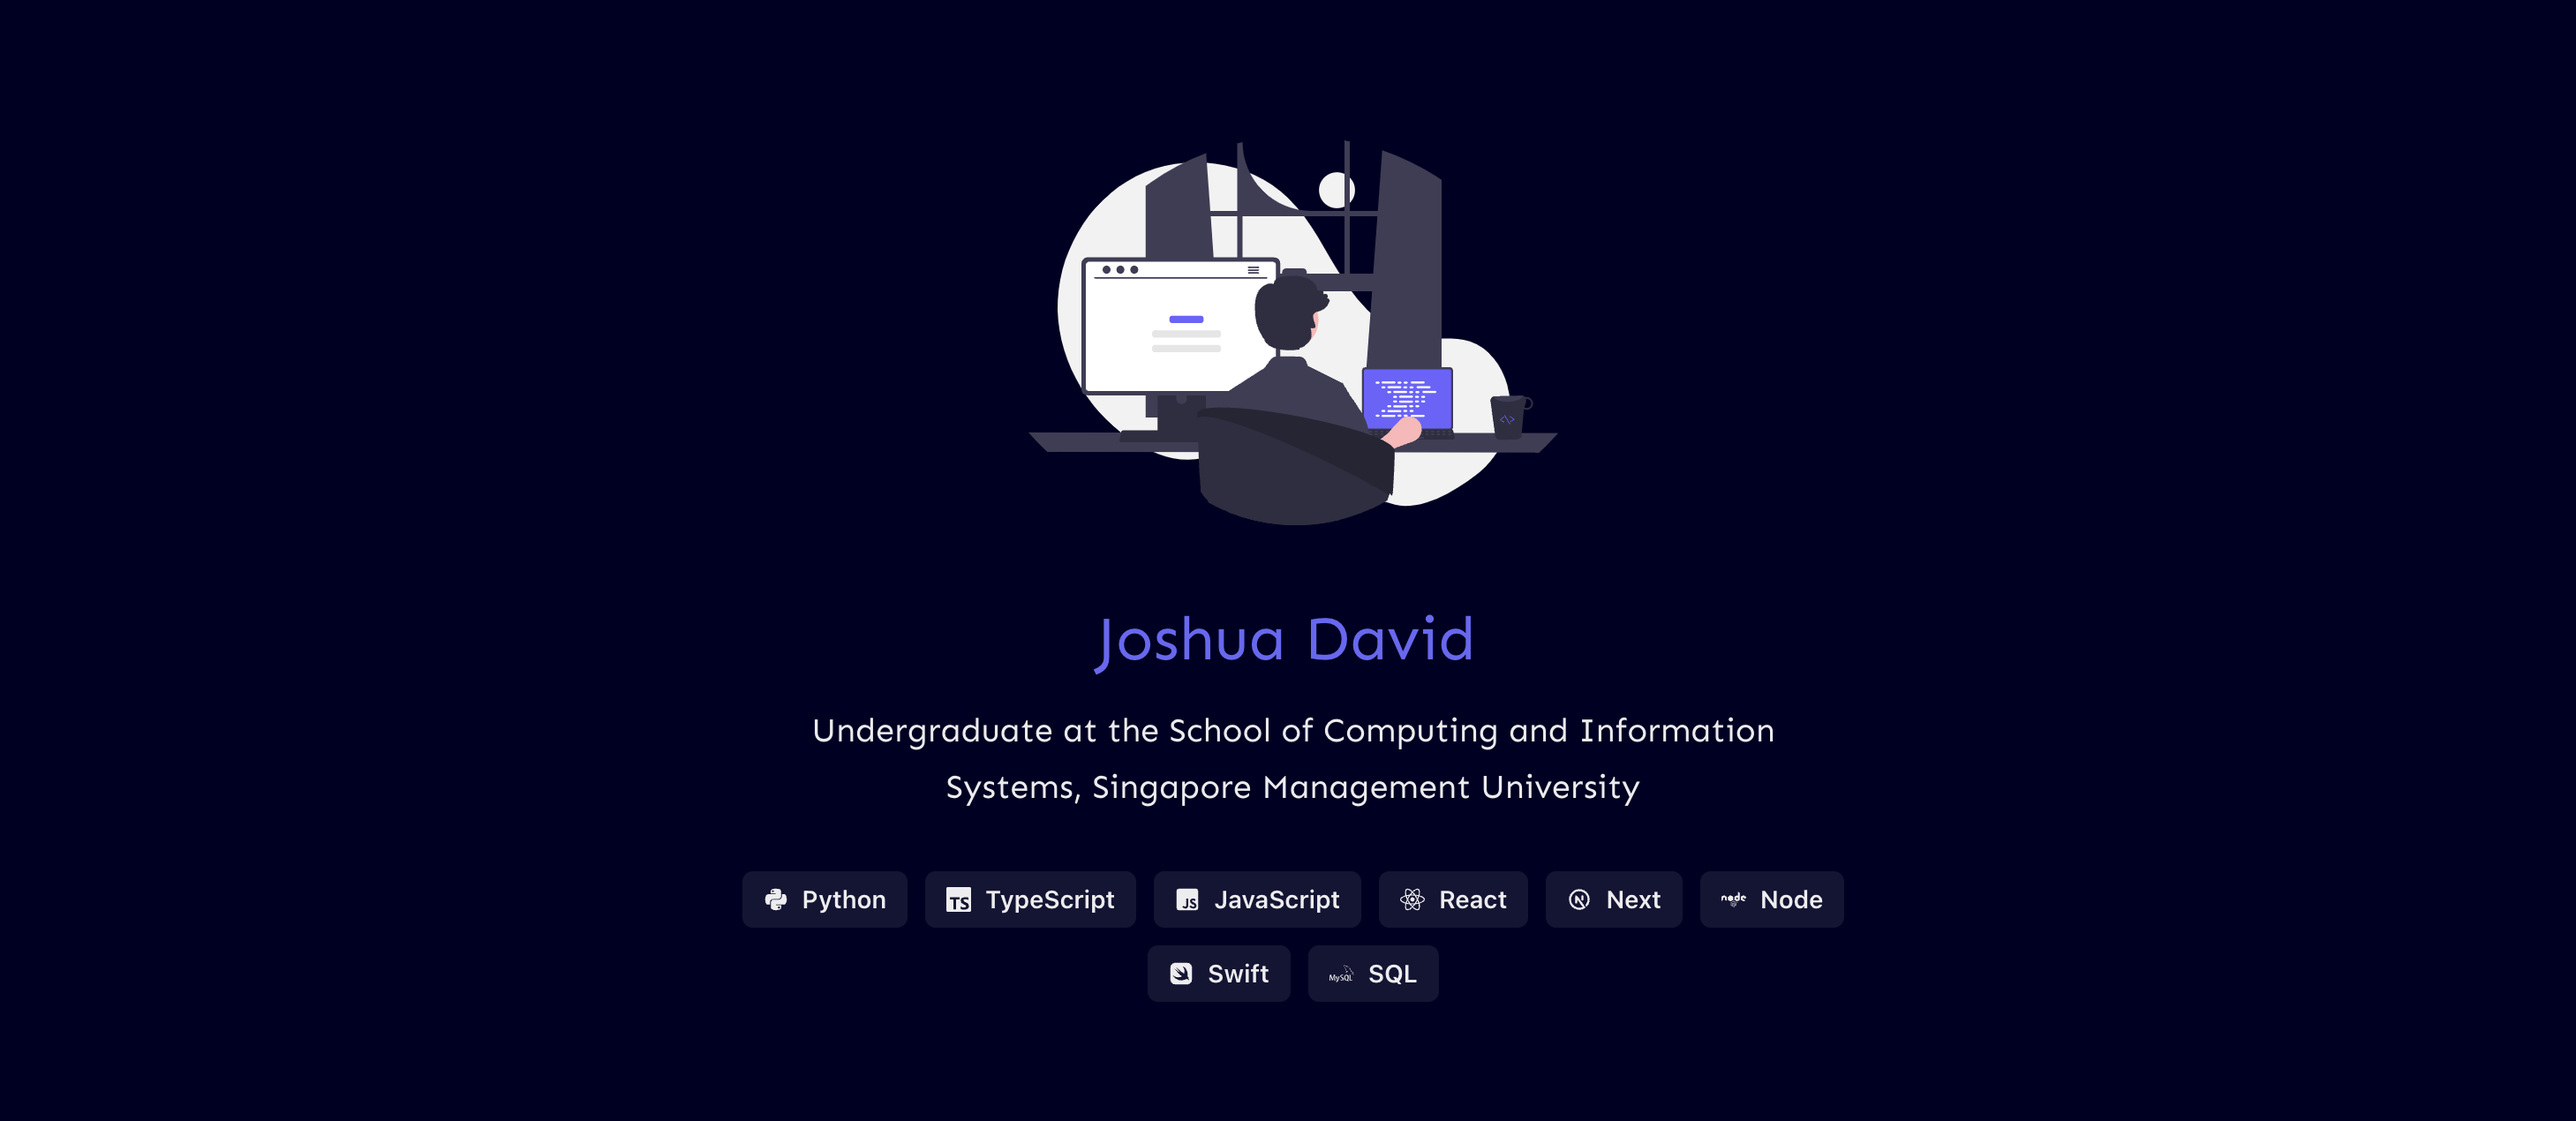
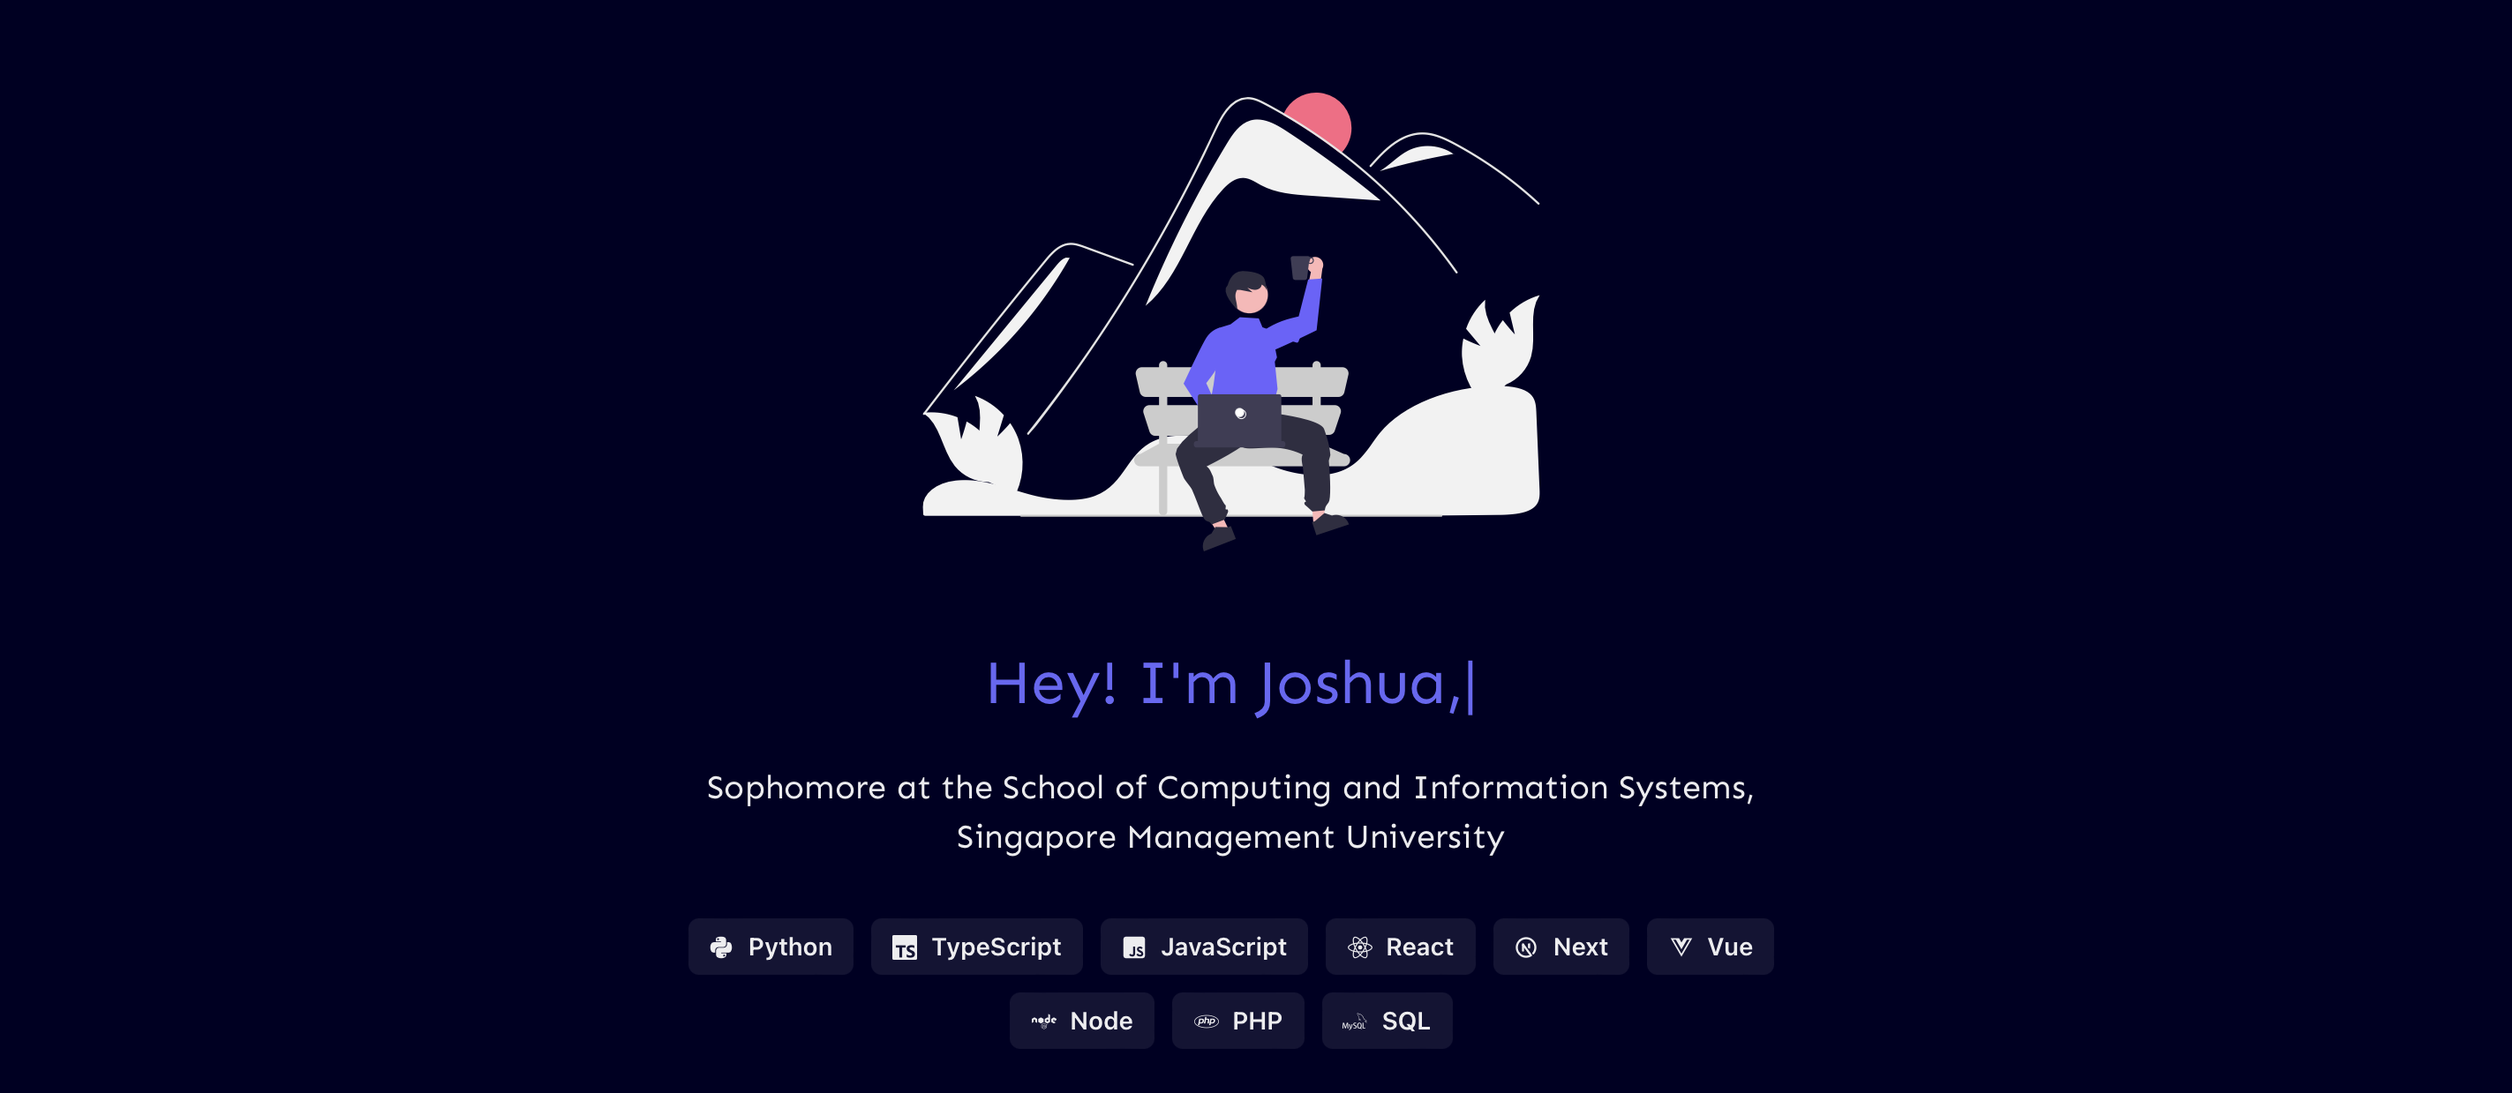
feat: updated meta data

diff --git a/pages/index.tsx b/pages/index.tsx
@@ -16,14 +16,14 @@ export default function Layout(props: { children: any }) {
         <meta name="theme-color" content="#000024" />
         <meta
           name="description"
-          content="Undergraduate at the School of Computing and Information Systems, Singapore Management University"
+          content="Sophomore at the School of Computing and Information Systems, Singapore Management University"
         />
 
         <meta property="og:title" content="Joshua David" />
         <meta property="og:image" content="//joshuadavid.dev/Banner.png" />
         <meta
           property="og:description"
-          content="Undergraduate at the School of Computing and Information Systems, Singapore Management University"
+          content="Sophomore at the School of Computing and Information Systems, Singapore Management University"
         />
         <meta property="og:url" content="//joshuadavid.dev" />
 
